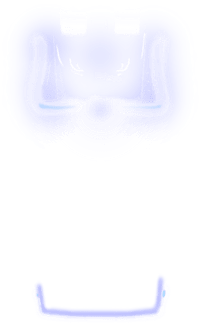
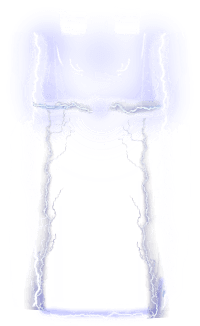
NEW - fire trails, UPDATE - time circuits active image

diff --git a/src/components/DeLorean/DeLorean.js b/src/components/DeLorean/DeLorean.js
@@ -34,12 +34,18 @@ export default function DeLorean({timePeriods}) {
 				const deLoreanContainerPresent = document.querySelector(".delorean__container--present")
 				const deLoreanContainerPast = document.querySelector(".delorean__container--past")
 				const deLoreanContainerHistory = document.querySelector(".delorean__container--history")
+				// TODO: Ugly ... unconceptual
+				const fireTrails = document.querySelectorAll(".firetrails-wrapper")
 
 				if ((body.getBoundingClientRect()).top > scrollPos) {
 					// -- when you go BACK TO THE FUTURE!
 					deLoreanContainers.forEach(delorean => {
 						delorean.classList.add('is-going-back')
 						deLoreanContainerHistory.classList.remove("is-hiding")
+
+						fireTrails.forEach(fireTrail => {
+							fireTrail.classList.add('is-going-back')
+						})
 					})
 
 					// -- “A flying DeLorean? I haven’t seen one of those in 30 years”
@@ -63,6 +69,10 @@ export default function DeLorean({timePeriods}) {
 					// -- turn Deloreans back to facing dowm
 					deLoreanContainers.forEach(delorean => {
 						delorean.classList.remove('is-going-back')
+
+						fireTrails.forEach(fireTrail => {
+							fireTrail.classList.remove('is-going-back')
+						})
 					})
 
 					// -- fly the Delorean to the middle of the screen

diff --git a/src/components/Time/Time.js b/src/components/Time/Time.js
@@ -13,6 +13,9 @@ export default function Time({children, timePeriod = 'present', customClass = ''
 		const deLoreanHeight = deLoreanContainer.getBoundingClientRect().height
 		const deLoreans = document.querySelectorAll(".delorean__container")
 
+		// TODO: Ugly ... unconceptual
+		const fireTrails = document.querySelectorAll(".firetrails-wrapper")
+
 		const middleSection = document.querySelector(".js-time-travel-checking")
 		const middleSectionTop = middleSection.getBoundingClientRect().top
 		const middleSectionBottom = middleSection.getBoundingClientRect().bottom
@@ -28,9 +31,17 @@ export default function Time({children, timePeriod = 'present', customClass = ''
 				car.classList.add("is-time-travelling")
 			})
 
+			fireTrails.forEach(fireTrail => {
+				fireTrail.classList.add("is-time-travelling")
+			})
+
 		} else {
 			deLoreans.forEach(car => {
 				car.classList.remove("is-time-travelling")
+			})
+
+			fireTrails.forEach(fireTrail => {
+				fireTrail.classList.remove("is-time-travelling")
 			})
 
 		}

diff --git a/src/components/Projects/_projects.scss b/src/components/Projects/_projects.scss
@@ -36,3 +36,69 @@
 		}
 	}
 }
+
+@media (min-width: $bp-md) {
+	.firetrails-wrapper {
+		position: absolute;
+		left: 50px;
+		top: 0;
+		width: 120px;
+		height: calc($gap * 35);
+		translate: 0 -50%;
+		overflow: hidden;
+		z-index: 1;
+
+		&.is-going-back {
+			left: 13px;
+
+			.firetrails {
+				translate: 0 20%;
+				rotate: -180deg;
+				left: 0;
+			}
+
+			&.is-time-travelling {
+				.firetrails {
+					animation: trailBack 1000ms ease-in-out;
+				}
+			}
+		}
+
+		&.is-time-travelling {
+			.firetrails {
+				animation: trail 1000ms ease-in-out;
+			}
+		}
+
+		.firetrails {
+			background: transparent url("./images/firetrails.png") repeat-x 0 0;
+			background-size: 50% 50%;
+			width: 120px;
+			height: 1008px;
+			position: absolute;
+			right: 0;
+			top: 0;
+			translate: 0 -100%;
+		}
+	}
+}
+
+@keyframes trail {
+	0% {
+		translate: 0 -50%;
+	}
+
+	100% {
+		translate: 0 50%;
+	}
+}
+
+@keyframes trailBack {
+	0% {
+		translate: 0 20%;
+	}
+
+	100% {
+		translate: 0 -100%;
+	}
+}

diff --git a/src/components/DeLorean/_delorean.scss b/src/components/DeLorean/_delorean.scss
@@ -190,7 +190,6 @@
 	display: flex;
 	align-items: center;
 
-	&:before,
 	&:after {
 		content: '';
 		position: absolute;
@@ -207,16 +206,6 @@
 		left: 0;
 		background: transparent url("./images/delorean--timecircuits-active.png") no-repeat center center;
 		background-size: contain;
-	}
-
-	&:before {
-		background: transparent url("./images/delorean--firetrail.png") repeat-x 0 0;
-		background-size: contain;
-		width: 120px;
-		height: 120px;
-		left: 25px;
-		translate: 0 -88%; // It was an accident, I swear :)
-		z-index: -1;
 	}
 }
 

diff --git a/src/components/Projects/Projects.js b/src/components/Projects/Projects.js
@@ -12,6 +12,12 @@ export default function Projects({projectsData}) {
 		<>
 			{projectsData.length ?
 				<section className={`section section--${timeperiod}`}>
+
+					{((timeperiod === "past") || (timeperiod === "history")) &&
+						<div className="firetrails-wrapper">
+							<div className="firetrails"></div>
+						</div>
+					}
 					<div className={`section__objects objects objects--${timeperiod}`}>
 
 						{timeperiod === "past" &&

diff --git a/README.md b/README.md
@@ -2,6 +2,10 @@
 Code of **[svatos.dev](https://svatos.dev)** which is my portfolio and coding playground at the same time. The theme of the website is a classic - **Back To the Future**. Easter eggs for fans included ;)
 ***
 ## Changelog
+**1.3.0**
+- NEW - DeLorean fire trails!
+- UPDATE - Time circuits active image
+
 **1.2.1**
 - FIX - Bowl &amp; Tonic link
 
